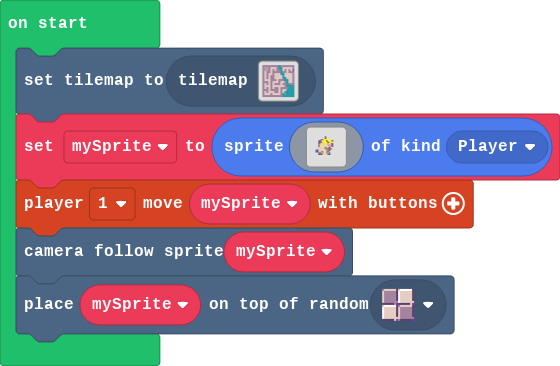
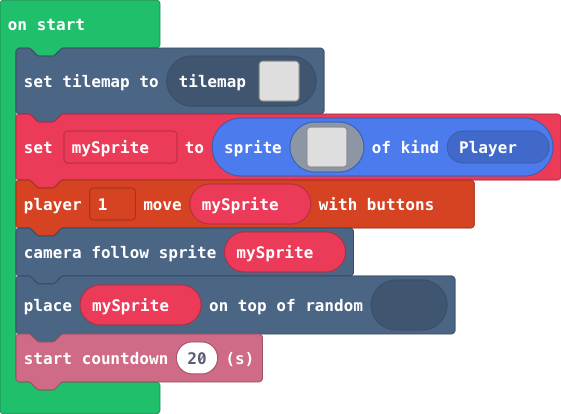
Update main.blocks, main.ts

diff --git a/main.ts b/main.ts
@@ -28,3 +28,4 @@ let mySprite = sprites.create(img`
 controller.player1.moveSprite(mySprite)
 scene.cameraFollowSprite(mySprite)
 tiles.placeOnRandomTile(mySprite, sprites.dungeon.floorMixed)
+info.startCountdown(20)
